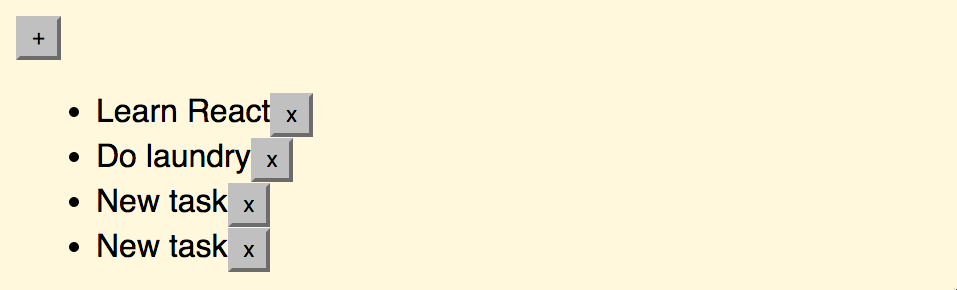
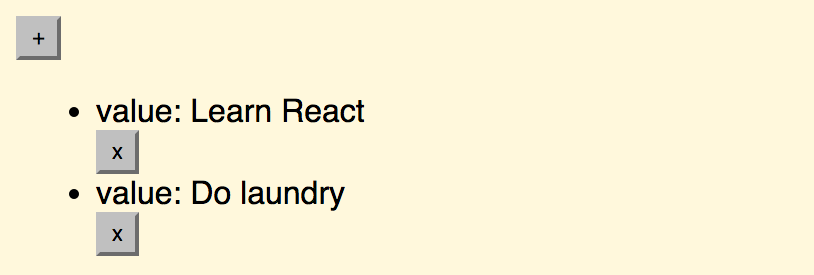
editing notes - Implement an `Editable` stub
This needs a couple of more bits to work.

Changed region(s): [[0.0614, 0.32, 0.4607, 0.96], [0.0, 0.0582, 0.0921, 0.2327], [0.0307, 0.0291, 0.0614, 0.0582]]

diff --git a/project_source/getting_started/04_editing_notes/kanban-app/app/Notes.jsx b/project_source/getting_started/04_editing_notes/kanban-app/app/Notes.jsx
@@ -1,13 +1,23 @@
 import React from 'react';
 import Note from './Note';
+import Editable from './Editable';
 
-export default ({notes, onDelete=() => {}}) => {
+export default ({
+  notes,
+  onValueClick=() => {}, onEdit=() => {}, onDelete=() => {}
+}) => {
   return (
-    <ul>{notes.map(({id, task}) =>
+    <ul>{notes.map(({id, editing, task}) =>
       <li key={id}>
-        <Note
-          onDelete={onDelete.bind(null, id)}
-          task={task} />
+        <Note>
+          <Editable
+            className="editable"
+            editing={editing}
+            value={task}
+            onValueClick={onValueClick.bind(null, id)}
+            onEdit={onEdit.bind(null, id)} />
+          <button onClick={onDelete.bind(null, id)}>x</button>
+        </Note>
       </li>
     )}</ul>
   );

diff --git a/project_source/getting_started/04_editing_notes/kanban-app/app/Editable.jsx b/project_source/getting_started/04_editing_notes/kanban-app/app/Editable.jsx
@@ -1,0 +1,14 @@
+import React from 'react';
+
+export default ({editing, value, onEdit, onValueClick, ...props}) => (
+  <div {...props}>
+    {editing ?
+      <Edit value={value} onEdit={onEdit} /> :
+      <Value value={value} onValueClick={onValueClick} />
+    }
+  </div>
+)
+
+const Value = ({value}) => <span>value: {value}</span>;
+
+const Edit = ({value}) => <span>edit: {value}</span>;

diff --git a/project_source/getting_started/04_editing_notes/kanban-app/app/Note.jsx b/project_source/getting_started/04_editing_notes/kanban-app/app/Note.jsx
@@ -1,8 +1,7 @@
 import React from 'react';
 
-export default ({task, onDelete}) => (
-  <div>
-    <span>{task}</span>
-    <button onClick={onDelete}>x</button>
+export default ({children, ...props}) => (
+  <div {...props}>
+    {children}
   </div>
 );

diff --git a/manuscript/getting_started/04_editing_notes.md b/manuscript/getting_started/04_editing_notes.md
@@ -6,7 +6,7 @@ What makes this scenario difficult is the user interface requirement. It's not e
 
 One way to achieve this is to implement so called **inline editing**. The idea is that when a user click a note, we'll show an input. After the user has finished editing and signals that to use either by triggering the `blur` event or by hitting *enter*, we'll capture the value and update.
 
-## Overview of `Editable`
+## Implementing `Editable`
 
 To keep the application clean, I'll wrap this behavior into a component known as `Editable`. It will give us an API like this:
 
@@ -14,10 +14,6 @@ To keep the application clean, I'll wrap this behavior into a component known as
 <Editable editing={editing} value={task}
   onEdit={onEdit.bind(null, id)}
   onValueClick={onValueClick.bind(null, id)}>
-  <Note
-    onDelete={onDelete.bind(null, id))
-    task={task}/>
-</Editable>
 ```
 
 This is an example of a **controlled** component. We'll control the editing state explicitly from outside of the component. This gives us more power, but it also makes `Editable` more involved to use.
@@ -26,13 +22,164 @@ An alternative way to handle this would have been to leave the control over the 
 
 It is possible to use both of these designs together. You can even have a controlled component that has uncontrolled elements inside. In this case we'll end up using an uncontrolled design for the `input` that `Editable` will contain for example. Even that could be turned into something controlled should we want to.
 
-T> React documentation discusses [controlled components](https://facebook.github.io/react/docs/forms.html) in greater detail.
+Logically `Editable` consists of two separate portions. We'll need to display the `Value` while we are not `editing`. In case we are `editing`, we'll want to show an `Edit` control instead. In this case we'll settle for a simple input as that will do the trick.
 
-## Implementing `Editable`
+Before digging into the details, we can implement a little stub and connect that to the application. This will give us the basic structure we need to grow the rest.
+
+T> The official documentation of React discusses [controlled components](https://facebook.github.io/react/docs/forms.html) in greater detail.
+
+### Extracting Rendering from `Note`
+
+Currently `Note` controls what is rendered inside it. It renders the passed task and connects a deletion button. We could push `Editable` inside it and handle the wiring through `Note` interface. Even though that might be one valid way to do it, we can push the rendering concern on a higher level.
+
+Having the concept of `Note` is useful especially when we'll expand the application further so there's no need to remove it. Instead, we can give the control over its rendering behavior to `Notes` and wire it there.
+
+React provides a prop known as `children` for this purpose. Adjust `Note` and `Notes` as follows to push the control over `Note` rendering to `Notes`:
+
+**app/Note.jsx**
+
+```javascript
+import React from 'react';
+
+leanpub-start-remove
+export default ({task, onDelete}) => (
+  <div>
+    <span>{task}</span>
+    <button onClick={onDelete}>x</button>
+  </div>
+);
+leanpub-end-remove
+leanpub-start-insert
+export default ({children, ...props}) => (
+  <div {...props}>
+    {children}
+  </div>
+);
+leanpub-end-insert
+```
+
+**app/Notes.jsx**
+
+```javascript
+import React from 'react';
+import Note from './Note';
+
+export default ({notes, onDelete=() => {}}) => {
+  return (
+    <ul>{notes.map(({id, task}) =>
+      <li key={id}>
+leanpub-start-remove
+        <Note
+          onDelete={onDelete.bind(null, id)}
+          task={task} />
+leanpub-end-remove
+leanpub-start-insert
+        <Note>
+          <span>{task}</span>
+          <button onClick={onDelete.bind(null, id)}>x</button>
+        </Note>
+leanpub-end-insert
+      </li>
+    )}</ul>
+  );
+}
+```
+
+### Adding `Editable` Stub
+
+We can model a rough starting point based on our specification as below. The idea is that we'll branch based on the `editing` prop and attach the props needed for implementing our logic:
+
+**app/Editable.jsx**
+
+```javascript
+import React from 'react';
+
+export default ({editing, value, onEdit, onValueClick, ...props}) => (
+  <div {...props}>
+    {editing ?
+      <Edit value={value} onEdit={onEdit} /> :
+      <Value value={value} onValueClick={onValueClick} />
+    }
+  </div>
+)
+
+const Value = ({value}) => <span>value: {value}</span>;
+
+const Edit = ({value}) => <span>edit: {value}</span>;
+```
+
+To see our stub in action we still need to connect it with our application.
+
+### Connecting `Editable` with `Notes`
+
+We still need to replace the relevant portions of the code to point at `Editable`. There are more props to track and to connect:
+
+**app/Notes.jsx**
+
+```javascript
+import React from 'react';
+import Note from './Note';
+leanpub-start-insert
+import Editable from './Editable';
+leanpub-end-insert
+
+leanpub-start-remove
+export default ({notes, onDelete=() => {}}) => {
+leanpub-end-remove
+leanpub-start-insert
+export default ({
+  notes,
+  onValueClick=() => {}, onEdit=() => {}, onDelete=() => {}
+}) => {
+leanpub-end-insert
+  return (
+leanpub-start-remove
+    <ul>{notes.map(({id, task}) =>
+leanpub-end-remove
+leanpub-start-insert
+    <ul>{notes.map(({id, editing, task}) =>
+leanpub-end-insert
+      <li key={id}>
+        <Note>
+leanpub-start-remove
+          <span>{task}</span>
+leanpub-end-remove
+leanpub-start-insert
+          <Editable
+            className="editable"
+            editing={editing}
+            value={task}
+            onValueClick={onValueClick.bind(null, id)}
+            onEdit={onEdit.bind(null, id)} />
+leanpub-end-insert
+          <button onClick={onDelete.bind(null, id)}>x</button>
+        </Note>
+      </li>
+    )}</ul>
+  );
+}
+```
+
+If everything went right, you should see something like this:
+
+![Connected `Editable`](images/react_06.png)
+
+### Tracking `Note` `editing` State
+
+XXX
+
+
+### Implementing `Value`
+
+XXX
+
+### Implementing `Edit`
 
 XXX
 
 ## Tracking `Note` `editing` State
+
+XXX
 
 Just as earlier with `App`, we need to deal with state again. This means a function based component won't be enough anymore. Instead, we need to convert it to a heavier format. For the sake of consistency, I'll be using the same component definition style as with `App`. In addition, we need to alter the `editing` state based on the user behavior, and finally render the right element based on it. Here's what this means in terms of React:
 
